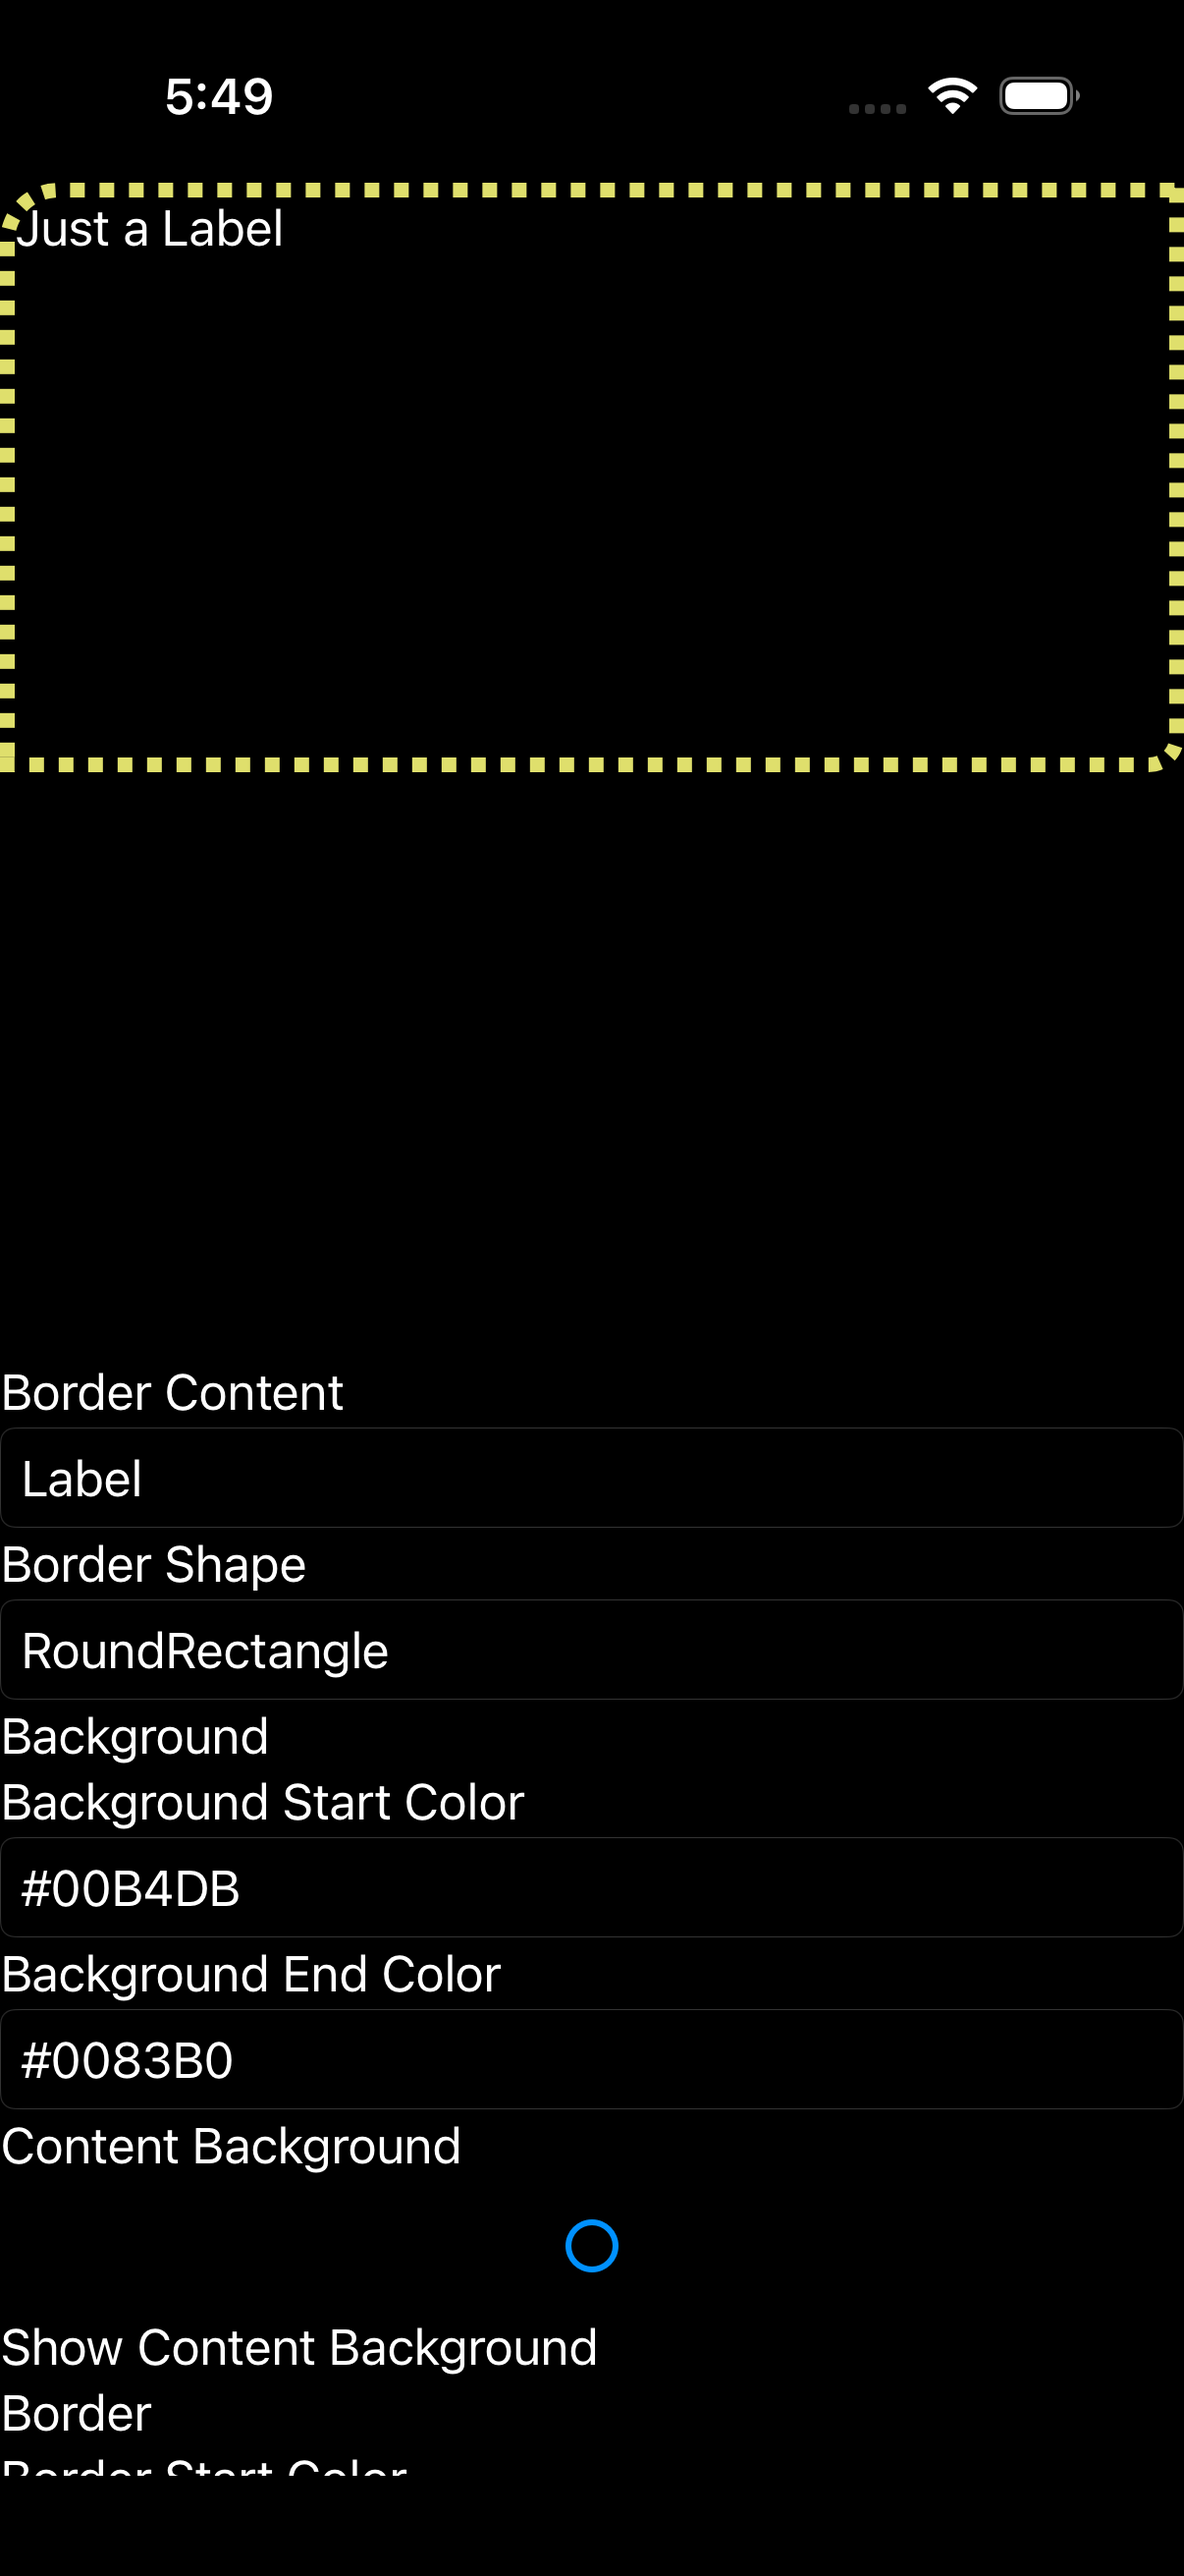
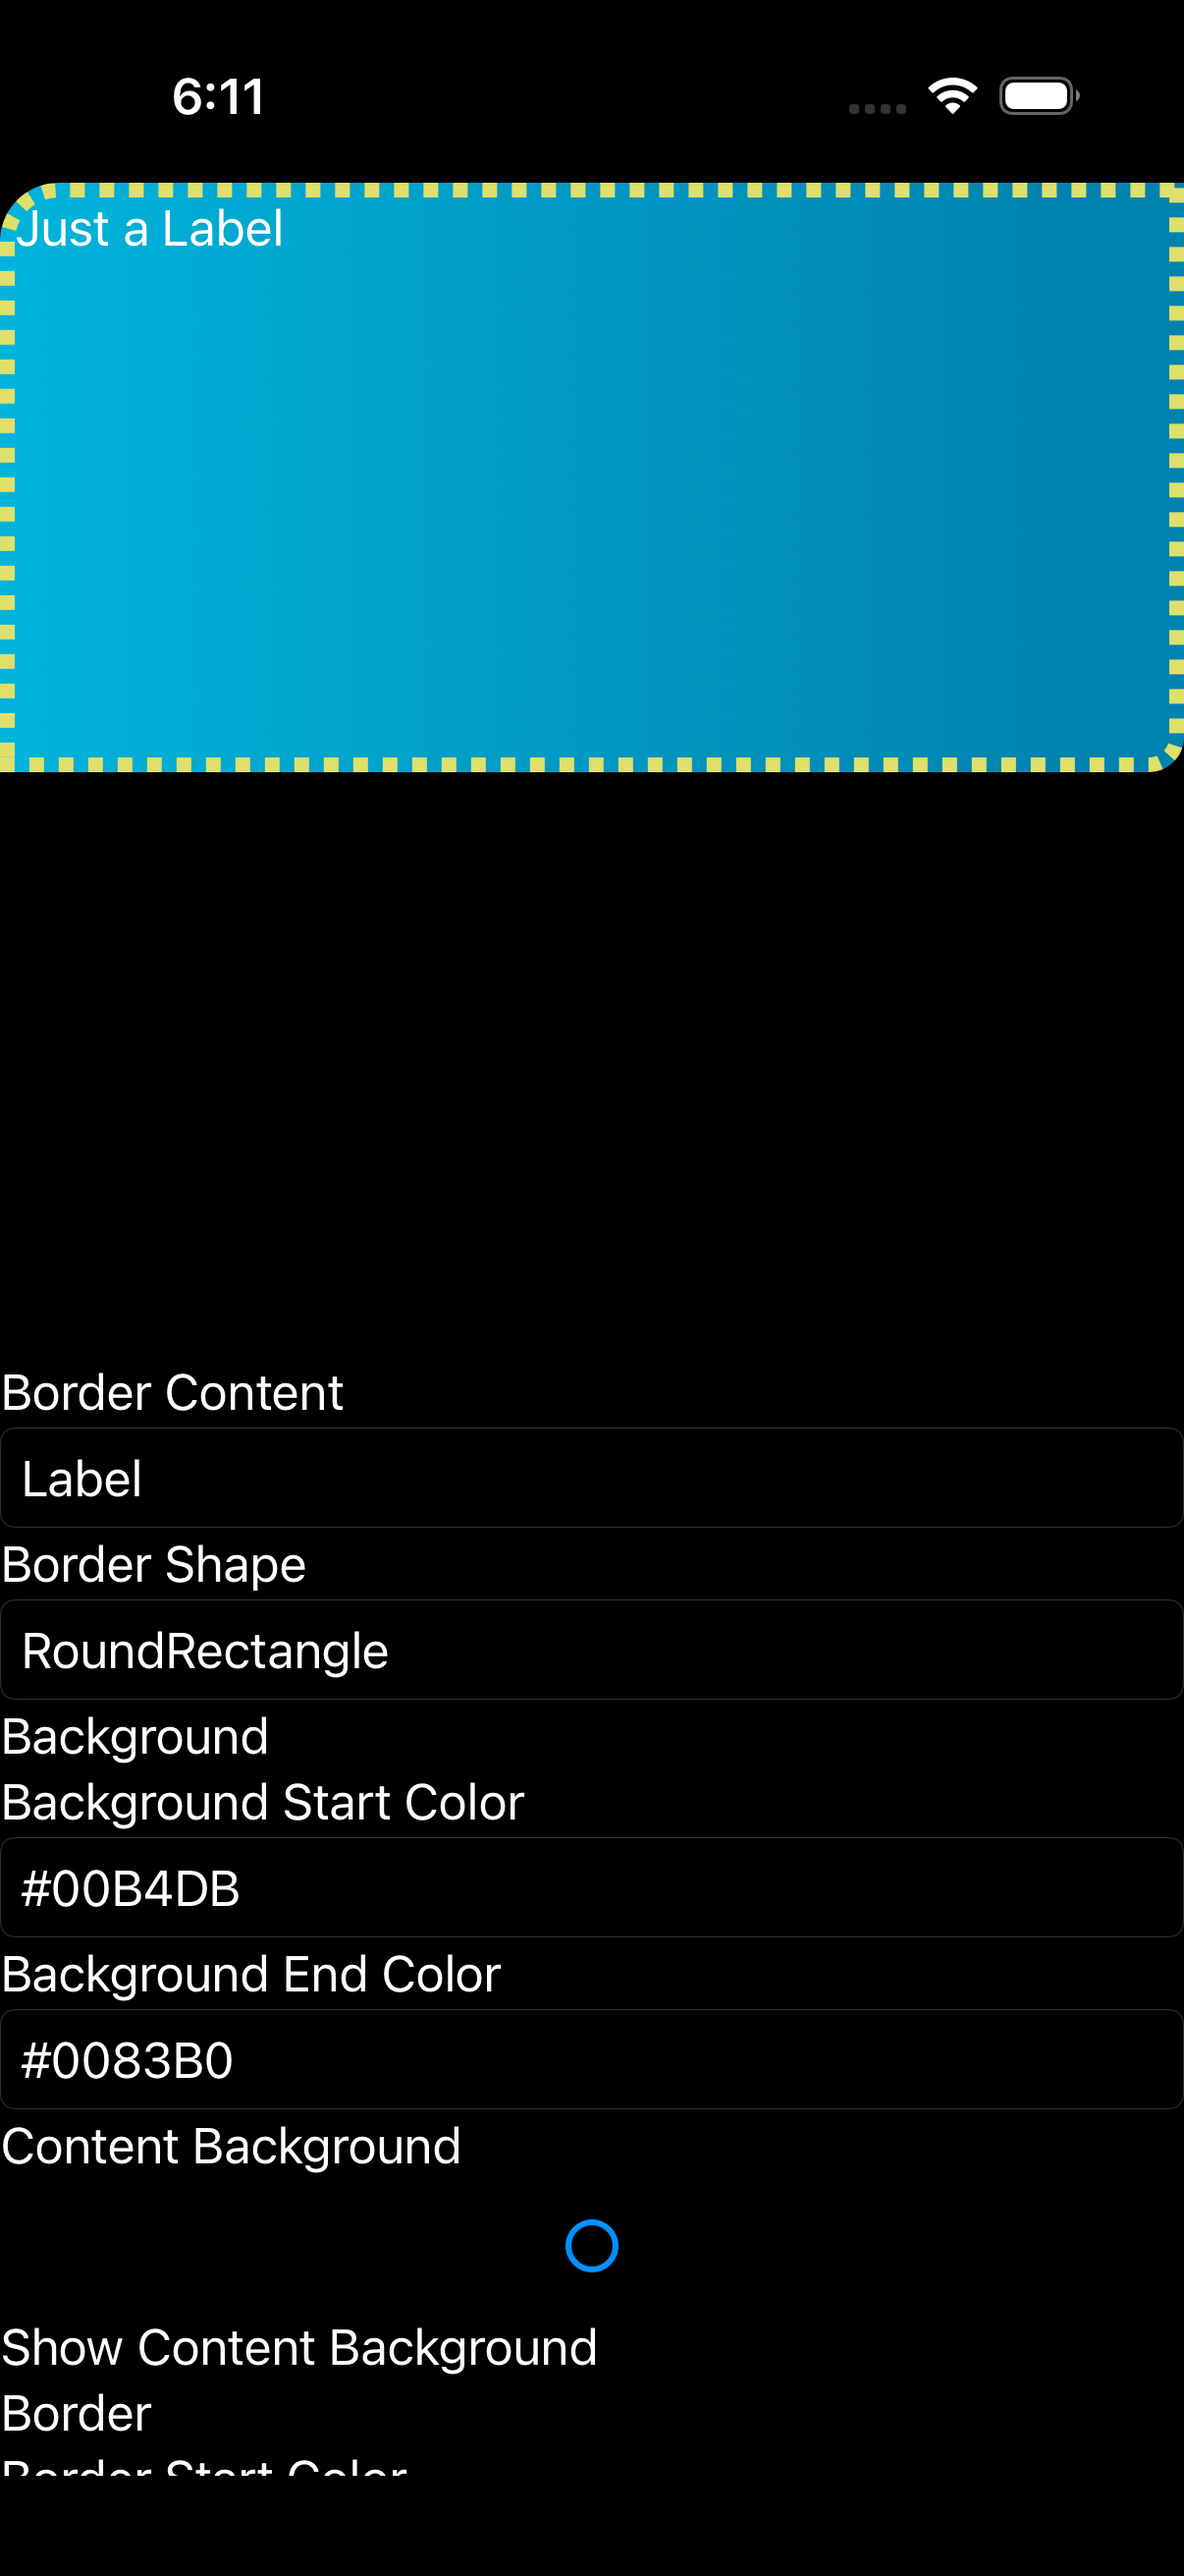
docs(parity): border_playground diff->minor (iOS Border gradient Background now renders via MauiIosBorder fix)

Changed region(s): [[0.0, 0.0309, 1.0, 0.3089]]

diff --git a/port/cpp/docs/comparison/README.md b/port/cpp/docs/comparison/README.md
@@ -2,7 +2,7 @@
 
 Theme-matched iOS comparison: each page rendered by **real .NET MAUI** vs the **C++ port**, on the same iPhone 17 simulator, compared **light-vs-light** and **dark-vs-dark**. Both stacks render native-default controls + the system font (the C# app's `dotnet new maui` default `Styles.xaml` + OpenSans are stripped; appearance forced via `MAUI_THEME` / `MAUI_APPEARANCE`). Goal: pixel-perfect parity, fixed example-by-example.
 
-**Progress: 0 / 172 🟢 matched** · 65 🟡 minor · 33 🔴 diff · 74 ⬜ pending
+**Progress: 0 / 172 🟢 matched** · 66 🟡 minor · 32 🔴 diff · 74 ⬜ pending
 
 Status legend: 🟢 pixel-match (both themes) · 🟡 minor diff · 🔴 notable diff to fix · ⬜ not yet reviewed. Per-theme verdicts in `parity_status.json`.
 
@@ -73,7 +73,7 @@ Rows are in **fix order** (top → bottom): foundational single controls first (
 | 59 | Border | 🟡<br>L:minor<br>D:minor | ![](csharp_ios_light/border.png) | ![](cpp_ios_light/border.png) | ![](csharp_ios_dark/border.png) | ![](cpp_ios_dark/border.png) |
 | 60 | Border Stroke | 🟡<br>L:minor<br>D:minor | ![](csharp_ios_light/border_stroke.png) | ![](cpp_ios_light/border_stroke.png) | ![](csharp_ios_dark/border_stroke.png) | ![](cpp_ios_dark/border_stroke.png) |
 | 61 | Border Layout | 🟡<br>L:minor<br>D:minor | ![](csharp_ios_light/border_layout.png) | ![](cpp_ios_light/border_layout.png) | ![](csharp_ios_dark/border_layout.png) | ![](cpp_ios_dark/border_layout.png) |
-| 62 | Border Playground | 🔴<br>L:diff<br>D:diff | ![](csharp_ios_light/border_playground.png) | ![](cpp_ios_light/border_playground.png) | ![](csharp_ios_dark/border_playground.png) | ![](cpp_ios_dark/border_playground.png) |
+| 62 | Border Playground | 🟡<br>L:minor<br>D:minor | ![](csharp_ios_light/border_playground.png) | ![](cpp_ios_light/border_playground.png) | ![](csharp_ios_dark/border_playground.png) | ![](cpp_ios_dark/border_playground.png) |
 | 63 | Border Clip Playground | 🟡<br>L:minor<br>D:minor | ![](csharp_ios_light/border_clip_playground.png) | ![](cpp_ios_light/border_clip_playground.png) | ![](csharp_ios_dark/border_clip_playground.png) | ![](cpp_ios_dark/border_clip_playground.png) |
 | 64 | Border Resize Content | 🔴<br>L:diff<br>D:diff | ![](csharp_ios_light/border_resize_content.png) | ![](cpp_ios_light/border_resize_content.png) | ![](csharp_ios_dark/border_resize_content.png) | ![](cpp_ios_dark/border_resize_content.png) |
 | 65 | Borderless | 🟡<br>L:minor<br>D:minor | ![](csharp_ios_light/borderless.png) | ![](cpp_ios_light/borderless.png) | ![](csharp_ios_dark/borderless.png) | ![](cpp_ios_dark/borderless.png) |
